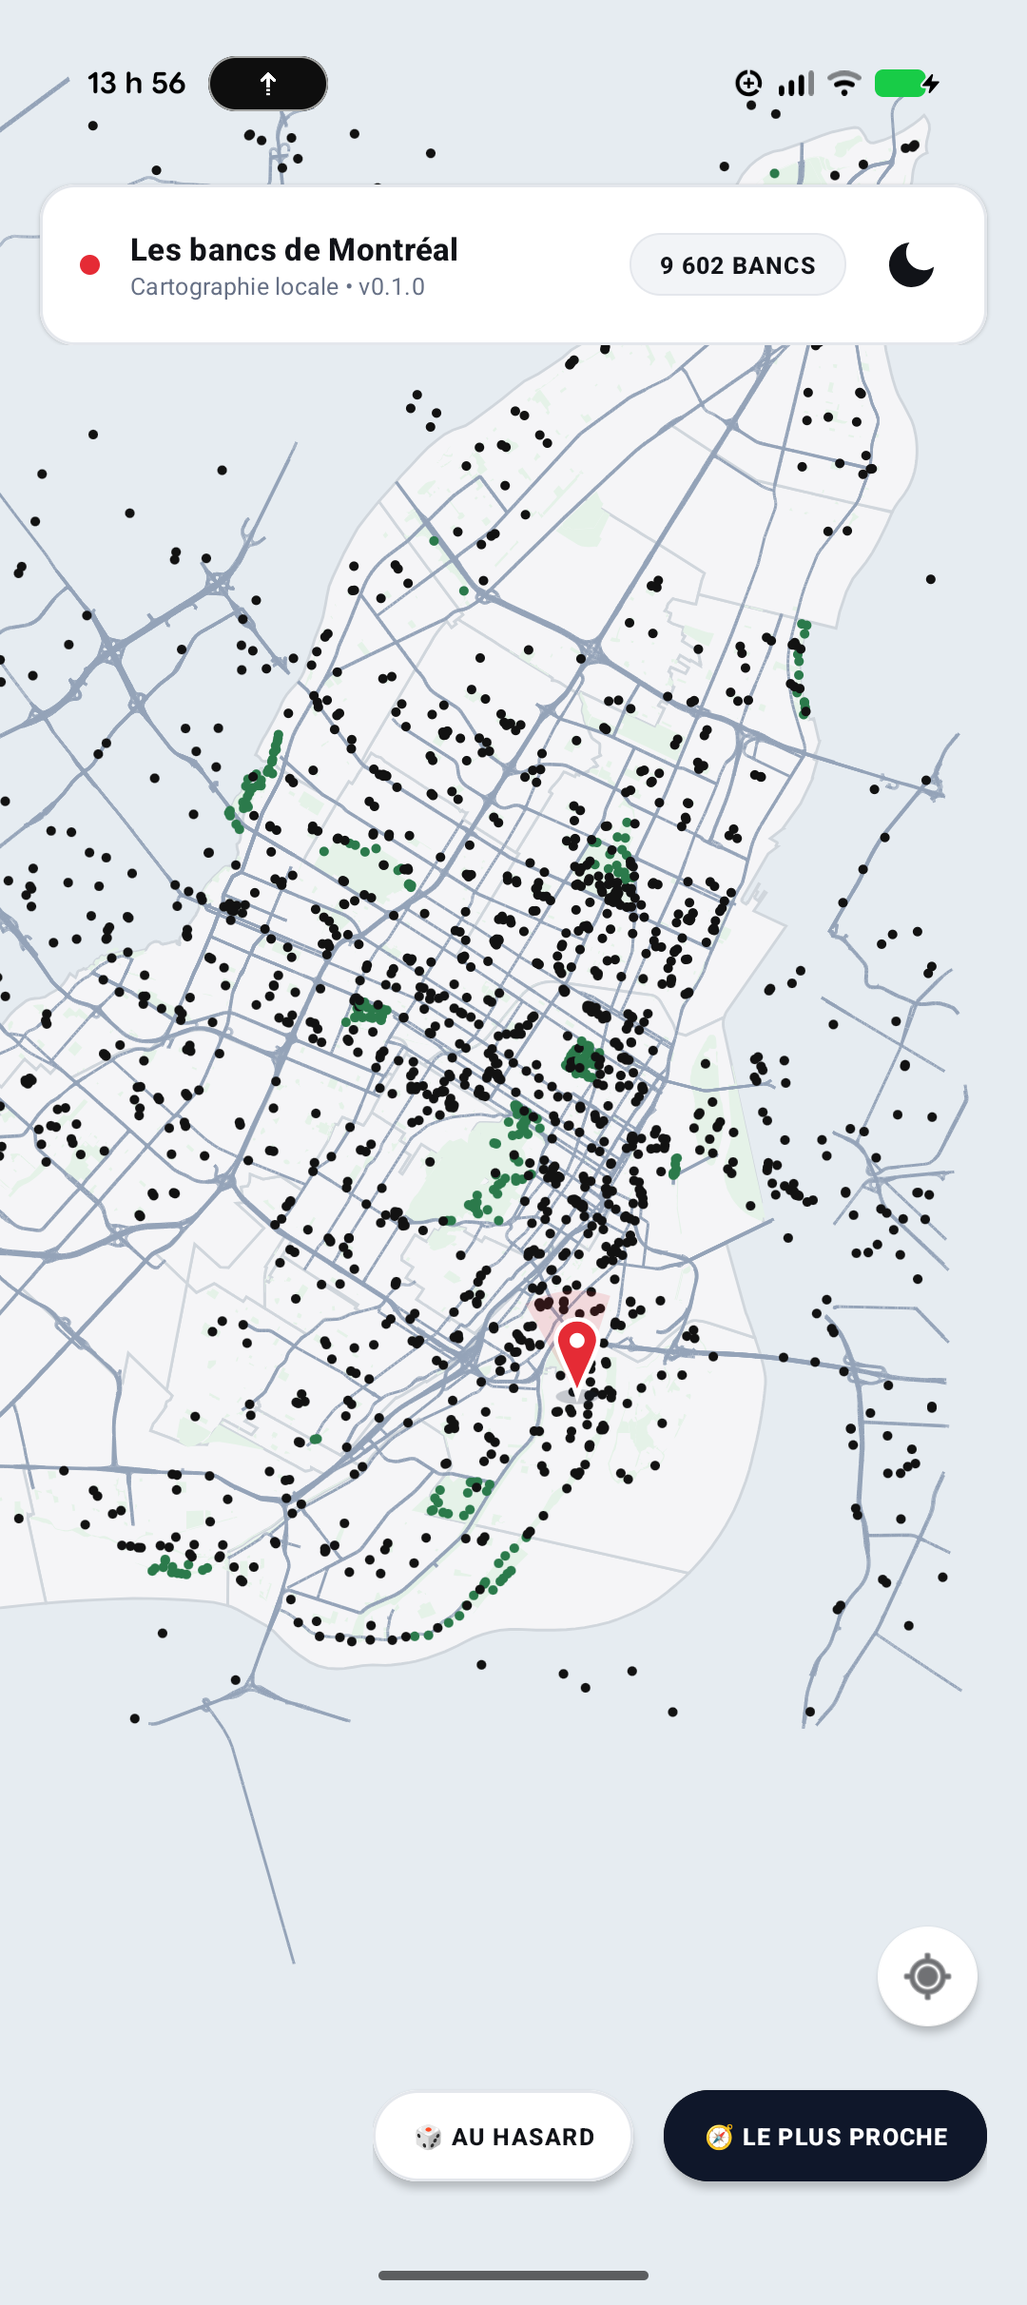
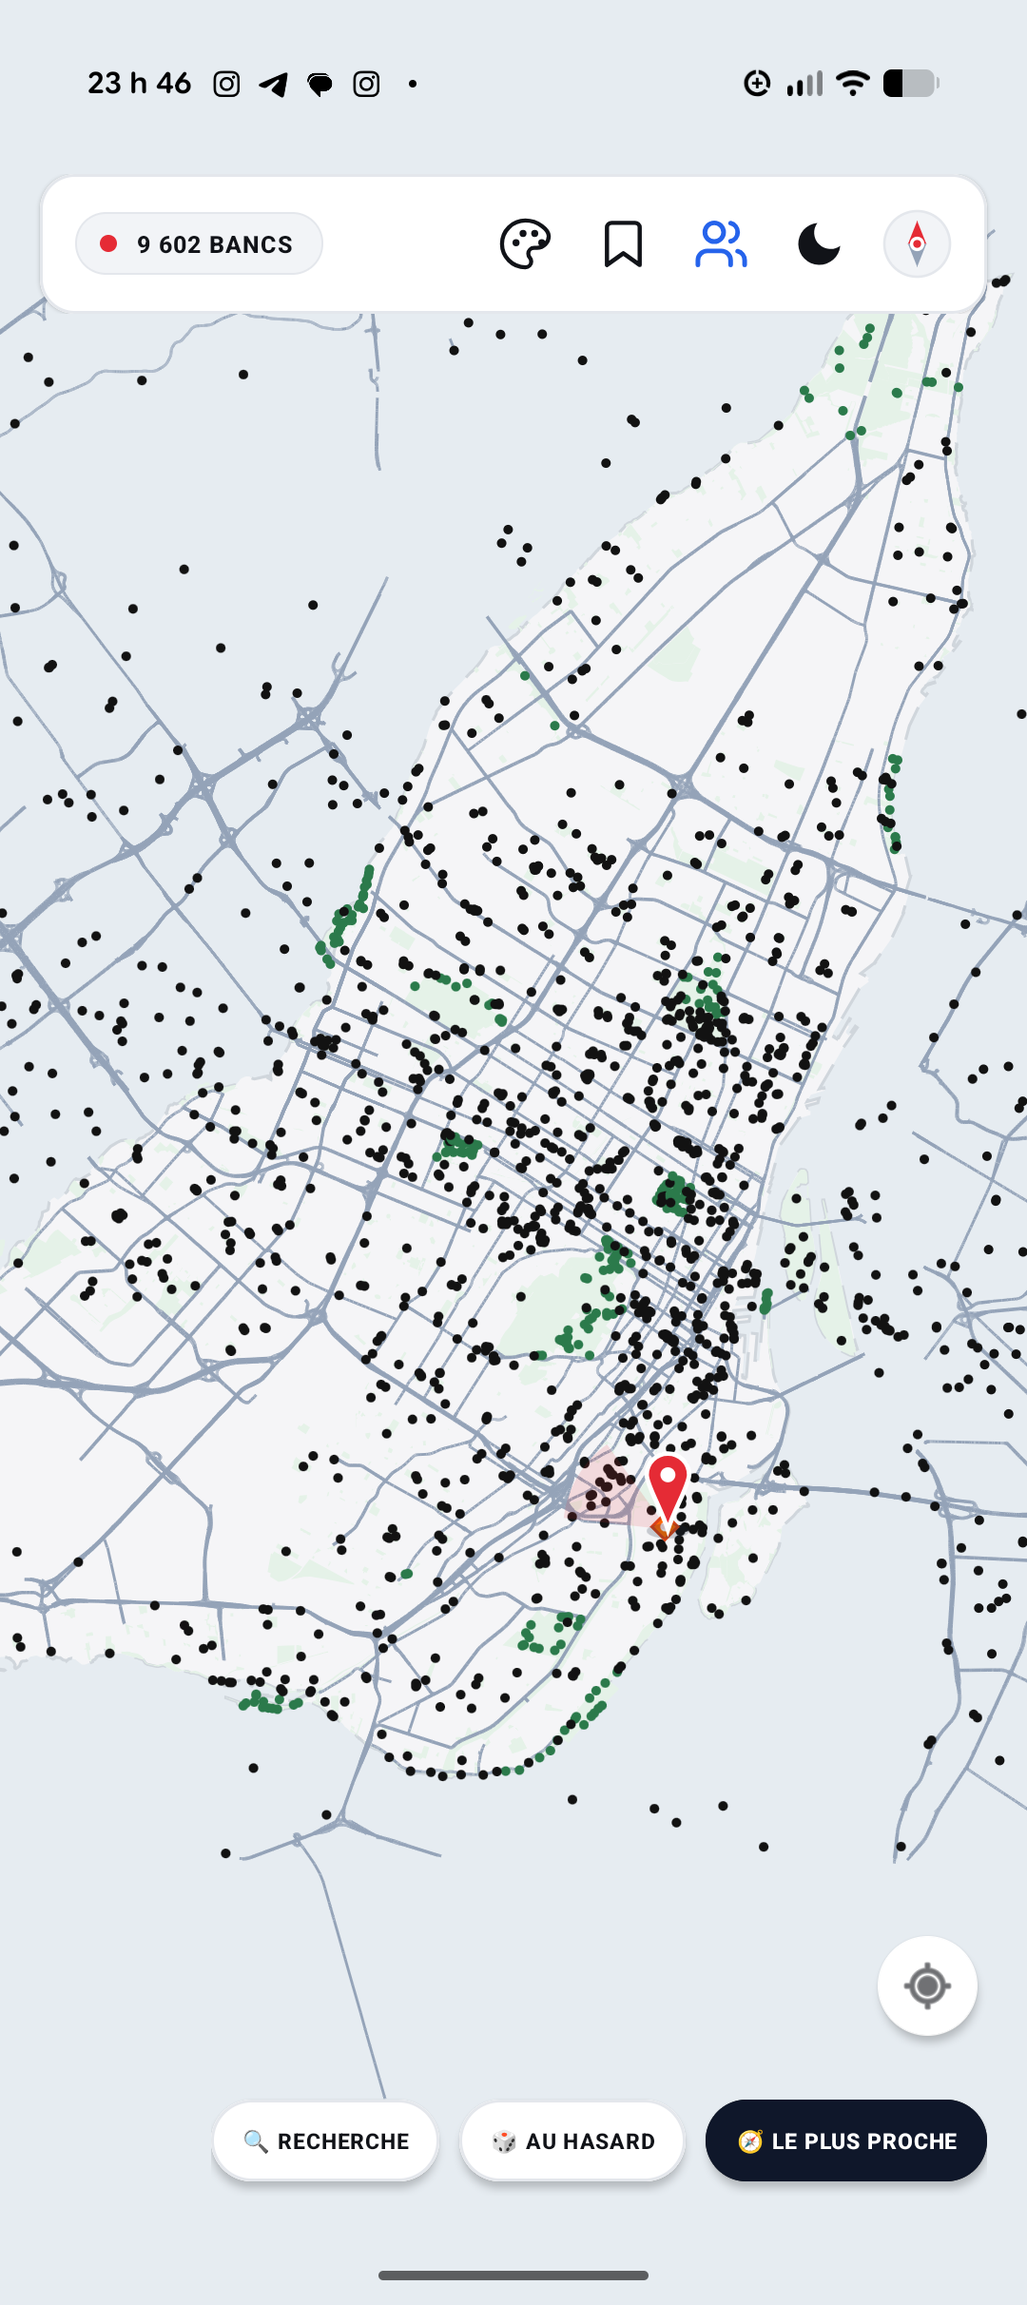
feat(nav-bar): integrate Swiss Compass in header bar, bump to v0.2.3, and update README with new screenshots

diff --git a/app/src/main/java/com/machine/benchmap/SwissCompassView.java b/app/src/main/java/com/machine/benchmap/SwissCompassView.java
@@ -1,0 +1,153 @@
+package com.machine.benchmap;
+
+import android.content.Context;
+import android.graphics.Canvas;
+import android.graphics.Color;
+import android.graphics.Paint;
+import android.graphics.Path;
+import android.util.AttributeSet;
+import android.view.View;
+
+import androidx.annotation.Nullable;
+
+/**
+ * Swiss Minimalist Compass Navigation View.
+ * Displays a two-tone True North needle (Swiss Red & Slate) that dynamically
+ * tracks map rotation and allows one-tap reset to North.
+ */
+public class SwissCompassView extends View {
+
+    private float compassRotation = 0f;
+    private boolean isDarkMode = false;
+
+    private final Paint paintNorthNeedle = new Paint(Paint.ANTI_ALIAS_FLAG);
+    private final Paint paintSouthNeedle = new Paint(Paint.ANTI_ALIAS_FLAG);
+    private final Paint paintDialBg = new Paint(Paint.ANTI_ALIAS_FLAG);
+    private final Paint paintDialStroke = new Paint(Paint.ANTI_ALIAS_FLAG);
+    private final Paint paintPivotRing = new Paint(Paint.ANTI_ALIAS_FLAG);
+    private final Paint paintPivotDot = new Paint(Paint.ANTI_ALIAS_FLAG);
+
+    private final Path northNeedlePath = new Path();
+    private final Path southNeedlePath = new Path();
+
+    public SwissCompassView(Context context) {
+        super(context);
+        init();
+    }
+
+    public SwissCompassView(Context context, @Nullable AttributeSet attrs) {
+        super(context, attrs);
+        init();
+    }
+
+    public SwissCompassView(Context context, @Nullable AttributeSet attrs, int defStyleAttr) {
+        super(context, attrs, defStyleAttr);
+        init();
+    }
+
+    private void init() {
+        paintNorthNeedle.setStyle(Paint.Style.FILL);
+        paintSouthNeedle.setStyle(Paint.Style.FILL);
+        paintDialBg.setStyle(Paint.Style.FILL);
+        paintDialStroke.setStyle(Paint.Style.STROKE);
+        paintPivotRing.setStyle(Paint.Style.FILL);
+        paintPivotDot.setStyle(Paint.Style.FILL);
+
+        float density = getResources().getDisplayMetrics().density;
+        paintDialStroke.setStrokeWidth(1.0f * density);
+
+        updateThemeColors();
+    }
+
+    public void setDarkMode(boolean darkMode) {
+        if (this.isDarkMode != darkMode) {
+            this.isDarkMode = darkMode;
+            updateThemeColors();
+            invalidate();
+        }
+    }
+
+    private void updateThemeColors() {
+        if (isDarkMode) {
+            paintNorthNeedle.setColor(Color.parseColor("#FF383C")); // Vibrant Swiss Coral Red
+            paintSouthNeedle.setColor(Color.parseColor("#64748B")); // Nocturne Slate
+            paintDialBg.setColor(Color.parseColor("#20232B"));      // Dark Chip/Card Bg
+            paintDialStroke.setColor(Color.parseColor("#2C303B"));  // Subtle Border
+            paintPivotRing.setColor(Color.parseColor("#16171B"));   // Base Obsidian
+            paintPivotDot.setColor(Color.parseColor("#FF383C"));
+        } else {
+            paintNorthNeedle.setColor(Color.parseColor("#E52B35")); // Classic Swiss Red
+            paintSouthNeedle.setColor(Color.parseColor("#94A3B8")); // Classic Slate
+            paintDialBg.setColor(Color.parseColor("#F2F4F7"));      // Light Chip Bg
+            paintDialStroke.setColor(Color.parseColor("#E4E7EC"));  // Subtle Border
+            paintPivotRing.setColor(Color.parseColor("#FFFFFF"));   // White Ring
+            paintPivotDot.setColor(Color.parseColor("#E52B35"));
+        }
+    }
+
+    public void setCompassRotation(float degrees) {
+        float norm = (degrees % 360f + 360f) % 360f;
+        if (Math.abs(norm - this.compassRotation) > 0.05f) {
+            this.compassRotation = norm;
+            invalidate();
+        }
+    }
+
+    public float getCompassRotation() {
+        return compassRotation;
+    }
+
+    @Override
+    protected void onDraw(Canvas canvas) {
+        super.onDraw(canvas);
+
+        int w = getWidth();
+        int h = getHeight();
+        if (w <= 0 || h <= 0) return;
+
+        float cx = w / 2f;
+        float cy = h / 2f;
+        float padL = getPaddingLeft();
+        float padR = getPaddingRight();
+        float padT = getPaddingTop();
+        float padB = getPaddingBottom();
+
+        float availW = w - padL - padR;
+        float availH = h - padT - padB;
+        float radius = Math.min(availW, availH) / 2f;
+        if (radius <= 0) return;
+
+        // Dial background & subtle border
+        canvas.drawCircle(cx, cy, radius, paintDialBg);
+        canvas.drawCircle(cx, cy, radius, paintDialStroke);
+
+        // Rotating compass needle
+        canvas.save();
+        canvas.rotate(compassRotation, cx, cy);
+
+        float needleLen = radius * 0.70f;
+        float needleW = radius * 0.28f;
+
+        // North needle (Swiss Red pointing Up)
+        northNeedlePath.reset();
+        northNeedlePath.moveTo(cx, cy - needleLen);
+        northNeedlePath.lineTo(cx - needleW, cy);
+        northNeedlePath.lineTo(cx + needleW, cy);
+        northNeedlePath.close();
+        canvas.drawPath(northNeedlePath, paintNorthNeedle);
+
+        // South needle (Slate pointing Down)
+        southNeedlePath.reset();
+        southNeedlePath.moveTo(cx, cy + needleLen);
+        southNeedlePath.lineTo(cx - needleW, cy);
+        southNeedlePath.lineTo(cx + needleW, cy);
+        southNeedlePath.close();
+        canvas.drawPath(southNeedlePath, paintSouthNeedle);
+
+        // Center pivot dot (clean double dot)
+        canvas.drawCircle(cx, cy, radius * 0.22f, paintPivotRing);
+        canvas.drawCircle(cx, cy, radius * 0.12f, paintPivotDot);
+
+        canvas.restore();
+    }
+}

diff --git a/app/src/main/java/com/machine/benchmap/MontrealBenchMapView.java b/app/src/main/java/com/machine/benchmap/MontrealBenchMapView.java
@@ -341,6 +341,31 @@ public class MontrealBenchMapView extends View {
     private double lastRotationAngle = 0;
     private boolean isRotating = false;
     private ValueAnimator rotationAnimator = null;
+    private boolean showFloatingCompass = false;
+
+    public interface OnRotationChangeListener {
+        void onRotationChanged(float rotationDegrees);
+    }
+    private OnRotationChangeListener rotationChangeListener = null;
+
+    public void setOnRotationChangeListener(OnRotationChangeListener listener) {
+        this.rotationChangeListener = listener;
+        if (listener != null) {
+            listener.onRotationChanged(mapRotationDegrees);
+        }
+    }
+
+    private void notifyRotationChanged() {
+        if (rotationChangeListener != null) {
+            rotationChangeListener.onRotationChanged(mapRotationDegrees);
+        }
+    }
+
+    public void setShowFloatingCompass(boolean show) {
+        this.showFloatingCompass = show;
+        invalidate();
+    }
+
     private final RectF compassBounds = new RectF();
     private float compassTopPx = -1f;
     private final Paint paintCompassBg = new Paint(Paint.ANTI_ALIAS_FLAG);
@@ -905,7 +930,7 @@ public class MontrealBenchMapView extends View {
                 }
                 float touchX = e.getX();
                 float touchY = e.getY();
-                if (compassBounds.contains(touchX, touchY)) {
+                if (showFloatingCompass && compassBounds.contains(touchX, touchY)) {
                     return;
                 }
 
@@ -1017,6 +1042,7 @@ public class MontrealBenchMapView extends View {
                         mapRotationDegrees = 0f;
                     }
                     lastRotationAngle = currentAngle;
+                    notifyRotationChanged();
                     invalidate();
                 }
             }
@@ -1411,7 +1437,7 @@ public class MontrealBenchMapView extends View {
     }
 
     private void handleTap(float touchX, float touchY) {
-        if (compassBounds.contains(touchX, touchY)) {
+        if (showFloatingCompass && compassBounds.contains(touchX, touchY)) {
             performHapticFeedback(HapticFeedbackConstants.CONTEXT_CLICK);
             onCompassTapped();
             return;
@@ -1743,8 +1769,10 @@ public class MontrealBenchMapView extends View {
 
         canvas.restore();
 
-        // 10. Swiss Minimal Compass Rose (always present for one-tap orientation & zoom)
-        drawSwissCompass(canvas, w, h);
+        // 10. Swiss Minimal Compass Rose (if floating mode is enabled)
+        if (showFloatingCompass) {
+            drawSwissCompass(canvas, w, h);
+        }
     }
 
     private void drawUserPin(Canvas canvas, float ux, float uy, float accuracyMeters) {
@@ -2063,6 +2091,7 @@ public class MontrealBenchMapView extends View {
             if (Math.abs(mapRotationDegrees) < 0.2f || Math.abs(mapRotationDegrees - 360f) < 0.2f) {
                 mapRotationDegrees = 0f;
             }
+            notifyRotationChanged();
             invalidate();
         });
         rotationAnimator.start();
@@ -2074,6 +2103,7 @@ public class MontrealBenchMapView extends View {
 
     public void setMapRotation(float rotationDegrees) {
         this.mapRotationDegrees = (rotationDegrees % 360f + 360f) % 360f;
+        notifyRotationChanged();
         invalidate();
     }
 

diff --git a/app/src/main/java/com/machine/benchmap/MainActivity.java b/app/src/main/java/com/machine/benchmap/MainActivity.java
@@ -105,6 +105,7 @@ public class MainActivity extends AppCompatActivity implements MontrealBenchMapV
     private ImageView btnCollections;
     private ImageView btnThemeToggle;
     private ImageView btnMeetup;
+    private SwissCompassView btnCompass;
     private boolean isDarkMode = false;
 
     // Rendez-vous (Meetup) Banner
@@ -236,6 +237,7 @@ public class MainActivity extends AppCompatActivity implements MontrealBenchMapV
         btnThemeToggle = findViewById(R.id.btn_theme_toggle);
         btnMeetup = findViewById(R.id.btn_meetup);
         btnCollections = findViewById(R.id.btn_collections);
+        btnCompass = findViewById(R.id.btn_compass);
 
         cardMeetupBanner = findViewById(R.id.card_meetup_banner);
         tvMeetupBannerTitle = findViewById(R.id.tv_meetup_banner_title);
@@ -352,6 +354,9 @@ public class MainActivity extends AppCompatActivity implements MontrealBenchMapV
         }
         if (btnMapStyle != null) {
             btnMapStyle.setImageTintList(ColorStateList.valueOf(darkMode ? Color.parseColor("#F4F5F7") : Color.parseColor("#111318")));
+        }
+        if (btnCompass != null) {
+            btnCompass.setDarkMode(darkMode);
         }
 
         // Rendez-vous Banner Styling
@@ -515,6 +520,19 @@ public class MainActivity extends AppCompatActivity implements MontrealBenchMapV
                     .putBoolean(PREF_DARK_MODE, newMode)
                     .apply();
             applyTheme(newMode);
+        });
+
+        if (btnCompass != null) {
+            btnCompass.setOnClickListener(v -> {
+                triggerHapticTick();
+                benchMapView.onCompassTapped();
+            });
+        }
+
+        benchMapView.setOnRotationChangeListener(degrees -> {
+            if (btnCompass != null) {
+                btnCompass.setCompassRotation(degrees);
+            }
         });
 
         fabMyLocation.setOnClickListener(v -> {

diff --git a/README.md b/README.md
@@ -14,6 +14,29 @@ A 100% local-first, privacy-respecting, native vector map of all **9,602 public 
 ## Features / Fonctionnalités
 
 - **100% Offline Vector Rendering**: Custom Canvas engine rendering authentic physical island shorelines (Île de Montréal, Île des Sœurs, Île Sainte-Hélène, Île Notre-Dame, Île Bizard, Île de la Visitation), 1,648 municipal parks, 29,708 street segments, and 9,602 benches via OpenGL `drawLines` hardware batching.
+- **🧭 Boussole Suisse Intégrée au Bandeau**:
+  - Intégrée avec précision comme **dernière icône à droite** du bandeau de navigation supérieur.
+  - Aiguille bicolore dynamique (Rouge suisse `#E52B35` / `#FF383C` pour le Nord, Ardoise `#94A3B8` / `#64748B` pour le Sud) pivotant en temps réel au rythme de la rotation de la carte.
+  - **Réalignement True North** : Un simple tap sur la boussole réinitialise l'orientation au Nord avec animation fluide et zoom avant d'exploration.
+  - Libère 100 % de l'espace sur le canvas cartographique pour une clarté visuelle totale.
+- **🔍 Moteur de Recherche d'Adresses Civiques & Lieux**:
+  - Recherche instantanée par adresse municipale exacte (géocodage local & `Geocoder` Android, ex: *« 3450 Saint-Urbain »*).
+  - Index pré-chargé des quartiers montréalais (*Plateau-Mont-Royal, Mile End, Vieux-Montréal, Griffintown, Petite Italie, Verdun, Hochelaga...*) et lieux d'intérêt (*Belvédère Mont-Royal, Oratoire Saint-Joseph, Marché Jean-Talon, Place des Arts, Parc La Fontaine...*).
+  - Support direct des coordonnées GPS (`lat, lon`).
+  - Recentrage et zoom automatique fluide sur l'emplacement choisi avec confirmation visuelle.
+- **◆ Ajout de Bancs Personnalisés (« Mes bancs »)**:
+  - **Appui long** sur une zone libre de la carte pour ajouter un banc public repéré sur le terrain mais absent du jeu de données officiel de la Ville.
+  - **Glyphe distinctif en losange (`◆`)** ambre/terracotta avec contour contrasté et cœur blanc, le différenciant instantanément des bancs circulaires standards.
+  - **Fiche d'ajout complète** : Coordonnées GPS précises, nom/repère, rue/parc, matériau (Bois, Métal, Béton, Pierre, Autre), présence d'un dossier, note personnelle et photographies locales.
+  - **Collection permanente « Mes bancs »** en tête des listes de favoris, modifiable et consultable 100% hors-ligne.
+- **🖼 Visualiseur Photo Immersif Plein Écran (Noir OLED)**:
+  - Affichage plein écran des photos des bancs sur un fond en noir absolu OLED (`#000000`).
+  - Masquage automatique des barres système (`displayCutout` et `statusBars`) pour une immersion totale sans démarcation.
+  - Bouton fermer 'X' contrasté cerclé de blanc, et fermeture instantanée d'un simple tap sur l'écran.
+- **📐 Isolation Tactile & Anti-Conflits Gestuels**:
+  - Annulation instantanée des minuteries d'appui long et de clic dès l'amorce d'un zoom multi-touch (`ACTION_CANCEL` vers le gesture detector).
+  - Rayon de sélection précis (20 dp) éliminant tout déclenchement intempestif lors du déplacement de la carte.
+  - Double-tap zoom instantané sur le point d'impact.
 - **🎨 8 Styles Cartographiques & Rotation Quotidienne**:
   - Un style graphique différent chaque jour de la semaine ou sélection manuelle :
     - *Clean Minimal* (Standard épuré)
@@ -24,11 +47,9 @@ A 100% local-first, privacy-respecting, native vector map of all **9,602 public 
     - *Tracé Artistique* (Esquisse organique et traits vivants)
     - *Matrice Pointillée* (Texture pointilliste)
     - *Noir Argentique* (Monochrome contrasté)
-- **👆 Gestuelle Fluide & Boussole Interactive**:
-  - **Double-tap zoom** : Zoom instantané et centrage fluide sur la zone tapée.
-  - **Rotation libre à 2 doigts** : Orientation de la carte avec retour haptique d'aimantation au Nord.
-  - **Épingles verticales stabilisées** : Les épingles (position courante et ami) contre-pivotent automatiquement pour rester toujours droites et verticales face à l'utilisateur, quelle que soit l'orientation de la carte.
-  - **Boussole épurée** : Cadran ultra-clean sans fioritures indiquant le Nord en continu ; un simple tap réinitialise l'orientation au Nord et effectue un zoom avant.
+- **👆 Gestuelle Fluide & Épingles Stabilisées**:
+  - **Rotation libre à 2 doigts** : Orientation libre avec retour haptique d'aimantation au Nord (snap 3.5°).
+  - **Épingles verticales stabilisées** : Les épingles de position contre-pivotent automatiquement pour rester toujours droites face à l'utilisateur.
 - **Ultra-Fast Binary Map Format**: Custom IEEE 754 float binary format (`montreal_map.bin`) loads the complete municipal bench cartography in **<70 ms** with zero JSON garbage collection overhead.
 - **Dual Minimalist Themes**:
   - **Nordic Paper & Precision Ink (Light)**: Warm architectural paper, sage green parks, crisp arterial slate lines, and deep charcoal bench markers.
@@ -44,11 +65,6 @@ A 100% local-first, privacy-respecting, native vector map of all **9,602 public 
   - **Privacy Blur Levels**: Choose exact coordinates, subtle ~150 m street blur, or ~300 m neighborhood blur to protect home address privacy.
   - **Fair Halfway Filtering**: Mathematical fairness algorithm finds candidate benches located at the exact halfway midpoint between both friends, minimizing walking time disparity.
   - **Interactive Meetup Mode**: Live geodesic connecting axis, Cobalt Blue friend pin, glowing amber candidate halos, and real-time travel comparison (`Vous: 1,4 km • Ami: 1,4 km (Écart: 20 m)`).
-- **◆ Ajout de bancs personnalisés (« Mes bancs »)**:
-  - **Appui long** sur une zone libre de la carte pour ajouter un banc public repéré sur le terrain mais absent du jeu de données officiel de la Ville.
-  - **Glyphe distinctif en losange (`◆`)** ambre/terracotta avec contour contrasté et cœur blanc, le différenciant instantanément des bancs circulaires standards.
-  - **Fiche d'ajout complète** : Coordonnées GPS précises, nom/repère, rue/parc, matériau (Bois, Métal, Béton, Pierre, Autre), présence d'un dossier, note personnelle et photographies locales.
-  - **Collection permanente « Mes bancs »** en tête des listes de favoris, modifiable et consultable 100% hors-ligne.
 - **🔍 Zoom Haute Précision Sub-Métrique**:
   - Niveau de zoom poussé jusqu'à une échelle de 65 000 000 (~70 m d'envergure d'écran) permettant de distinguer l'emplacement exact de chaque banc par rapport aux allées et trottoirs.
 - **100% Local & Sécurisé**: Données et photos stockées exclusivement en local sur l'appareil (`collections.json` et `bench_photos/`). Aucun serveur, aucun pistage.
@@ -56,11 +72,11 @@ A 100% local-first, privacy-respecting, native vector map of all **9,602 public 
 
 ---
 
-## Screenshots
+## Screenshots / Aperçus
 
-| Nordic Paper (Light Mode) | Nocturne (Dark Mode) |
-| :---: | :---: |
-| <img src="screenshot_light_mode.png" width="340" /> | <img src="dark_mode.png" width="340" /> |
+| Mode Clair (Nordic Paper) | Mode Sombre (Nocturne OLED) | Visualiseur Plein Écran |
+| :---: | :---: | :---: |
+| <img src="screenshot_light_mode.png" width="280" /> | <img src="screenshot_dark_mode.png" width="280" /> | <img src="screenshot_photo_viewer.png" width="280" /> |
 
 ---
 
@@ -68,7 +84,7 @@ A 100% local-first, privacy-respecting, native vector map of all **9,602 public 
 
 - **Platform**: Android 10+ (API 29 to API 34)
 - **Language**: Java 17
-- **UI Architecture**: Hardware-accelerated Custom View (`MontrealBenchMapView.java`) + Material Components 3
+- **UI Architecture**: Hardware-accelerated Custom View (`MontrealBenchMapView.java`, `SwissCompassView.java`) + Material Components 3
 - **Spatial Indexing**: 2D Uniform Spatial Grid partitioning over WGS 84 Web Mercator projection
 - **Data Source**: [Données ouvertes — Ville de Montréal](https://donnees.montreal.ca/)
 
@@ -96,7 +112,7 @@ cd bancs-publics
 ```
 
 Output APK will be located at:
-`app/build/outputs/apk/release/app-release-unsigned.apk` (or signed if `benchmap-release.jks` is provided).
+`app/build/outputs/apk/release/app-release.apk` (or signed if `benchmap-release.jks` is provided).
 
 ---
 
